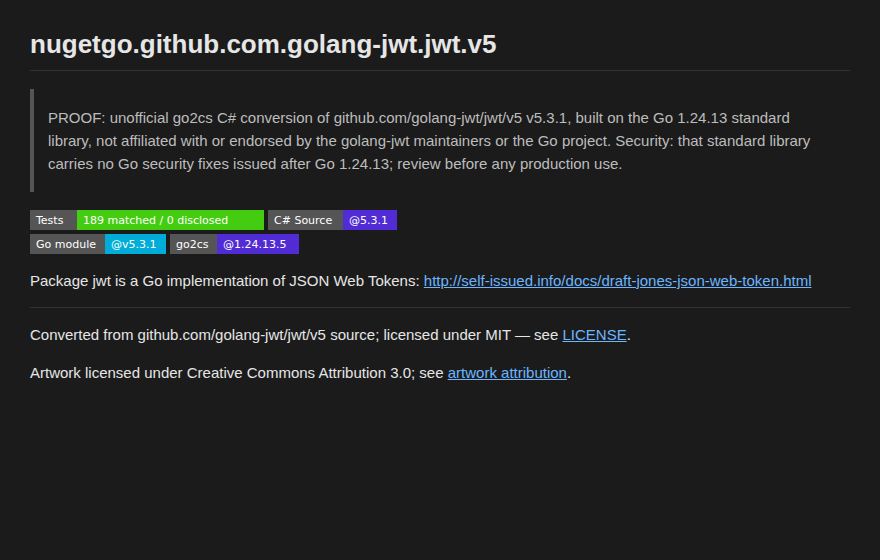
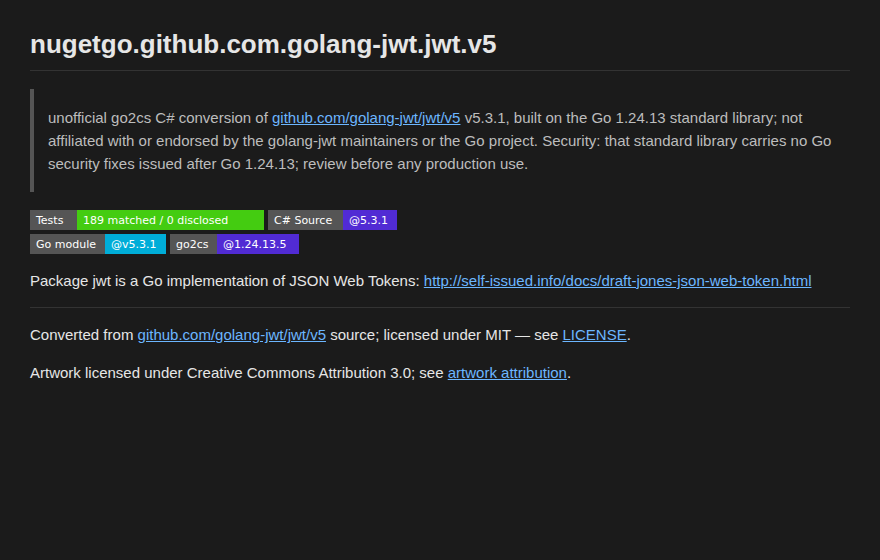
nugetgo jwt kit: the owner's README review and COORD ruling C -- no PROOF, the Go source linked, tags go2cs golang go
Both packages (the int.1 rehearsal and the release candidate) are re-packed at the tools tree 3d0d70ba53, from the
same roots and with the same proof.
- The description, the release notes and the README callout drop "PROOF:". The callout and the license line link the
  module at its GitHub version tag, which was checked anonymously. The package tags are go2cs golang go.
- Against the previous kit packages, only README.md, VALIDATION.md (its first line) and the nuspec's description,
  release notes and tags differ. Every assembly, pdb, the icon, LICENSE, index.md and the self-description are
  byte-identical.
- Refreshed: both nupkgs, SHA256SUMS, preview/README.md and README.png, conversion/VALIDATION.md (byte for byte as
  packed) and conversion/README.md (it quotes the description).
- OWNER-SHEET.md: $T and the packing notes name 3d0d70ba53. All PowerShell blocks parse.

Claude-Session: https://claude.ai/code/session_01DNESknHoGGXyZQ1oGc1eJC

Changed region(s): [[0.0307, 0.1821, 0.9511, 0.3036], [0.1534, 0.5768, 0.3682, 0.6071], [0.6136, 0.5768, 0.6443, 0.6071]]

diff --git a/OWNER-SHEET.md b/OWNER-SHEET.md
@@ -42,7 +42,7 @@ and version from its contents, so the file name changes nothing for signing or p
 | `conversion/` | for COORD: the files of the conversion commit on `jwt-cs`, in the nested layout; the upstream LICENSE, VALIDATION.md and the proof page(s) sit at its root |
 | `ROW-PR.md` | draft text for the registry row's pull request |
 
-Both packages were packed at `T` = `claude/c2-nugetgo-tools` @ `ac8775c806`, against the published go.* 1.24.13.5,
+Both packages were packed at `T` = `claude/c2-nugetgo-tools` @ `3d0d70ba53`, against the published go.* 1.24.13.5,
 with `-platforms linux/amd64` and `-ExcludePackage github.com/golang-jwt/jwt/v5/test` (COORD ruling: jwt's own test
 fixtures, not API a consumer imports). Each holds two assemblies, the root package and `request`. Section 1: 189
 matched, 0 disclosed (root 186, `request` 3); input digests `sha256-9647af36…eb78` (root) and `sha256-4a1b7eb5…f8cb`
@@ -51,8 +51,17 @@ matched, 0 disclosed (root 186, `request` 3); input digests `sha256-9647af36…e
 `T` is the tools that packed the first packages here plus the README and icon cut (owner, 2026-10-10), and the packs
 add `-LicenseSpdx MIT`. Each package now carries a generated README.md as its nuget.org README, the go2cs icon,
 and VALIDATION.md as a file the README links. The README links the conversion repository at the tag `nuget-<release
-version>`, never `HEAD` (COORD ruling 2026-10-10). Everything else is unchanged and was measured so: the packed assemblies
-are byte-identical to the ones packed at `7888e4e72f`, and so are the description and VALIDATION.md.
+version>`, never `HEAD` (COORD ruling 2026-10-10). The packed assemblies are byte-identical to the ones packed at
+`7888e4e72f`, measured.
+
+The owner's review of the hashset preview (2026-10-10) reaches these packages too, from `T` = `3d0d70ba53`. The
+description, the release notes and the README's top callout no longer start with "PROOF:", and read "...
+standard library; not affiliated ...". The callout's module path, and the "Converted from ..." line's, link the Go
+module's source at its version tag on GitHub. The package tags are `go2cs golang go`, with PROOF dropped (COORD ruling
+C). Against the previous kit's packages, only README.md, VALIDATION.md (its first line, which is the description) and
+the nuspec's description, release notes and tags differ; every assembly, the pdbs, the icon, LICENSE, `index.md` and the
+self-description are byte-identical. `conversion/VALIDATION.md` is the new file, byte for byte as packed, and
+`conversion/README.md` quotes the new description.
 
 ## PATH A: run the rehearsal
 
@@ -76,7 +85,7 @@ if ((go version) -notmatch 'go1\.24\.13 ') { throw 'go is not go1.24.13: check t
 
 $Repo = (git rev-parse --show-toplevel)
 $Work = Join-Path ([IO.Path]::GetTempPath()) 'nugetgo-jwt-int1'
-$T    = 'ac8775c806'
+$T    = '3d0d70ba53'
 $Kit  = 'claude/c2-nugetgo-jwt-5.3.1'
 $Id   = 'nugetgo.github.com.golang-jwt.jwt.v5'
 $PV   = '5.3.1-int.1'

diff --git a/preview/README.md b/preview/README.md
@@ -1,6 +1,6 @@
 # nugetgo.github.com.golang-jwt.jwt.v5
 
-> PROOF: unofficial go2cs C# conversion of github.com/golang-jwt/jwt/v5 v5.3.1, built on the Go 1.24.13 standard library, not affiliated with or endorsed by the golang-jwt maintainers or the Go project. Security: that standard library carries no Go security fixes issued after Go 1.24.13; review before any production use.
+> unofficial go2cs C# conversion of [github.com/golang-jwt/jwt/v5](https://github.com/golang-jwt/jwt/tree/v5.3.1) v5.3.1, built on the Go 1.24.13 standard library; not affiliated with or endorsed by the golang-jwt maintainers or the Go project. Security: that standard library carries no Go security fixes issued after Go 1.24.13; review before any production use.
 
 [![Tests](https://img.shields.io/badge/Tests-189_matched_%2F_0_disclosed-brightgreen?logo=go)](https://github.com/ritchiecarroll/jwt-cs/blob/nuget-5.3.1/VALIDATION.md) [![C# Source](https://img.shields.io/badge/C%23_Source-@5.3.1-512BD4?logo=dotnet)](https://github.com/ritchiecarroll/jwt-cs/tree/nuget-5.3.1)\
 [![Go module](https://img.shields.io/badge/Go_module-@v5.3.1-00ADD8?logo=go)](https://pkg.go.dev/github.com/golang-jwt/jwt/v5@v5.3.1) [![go2cs](https://img.shields.io/badge/go2cs-@1.24.13.5-512BD4?logo=dotnet)](https://github.com/ritchiecarroll/go2cs/tree/nuget-1.24.13.5)
@@ -9,6 +9,6 @@ Package jwt is a Go implementation of JSON Web Tokens: http://self-issued.info/d
 
 ---
 
-Converted from github.com/golang-jwt/jwt/v5 source; licensed under MIT — see [LICENSE](https://github.com/ritchiecarroll/jwt-cs/blob/nuget-5.3.1/LICENSE).
+Converted from [github.com/golang-jwt/jwt/v5](https://github.com/golang-jwt/jwt/tree/v5.3.1) source; licensed under MIT — see [LICENSE](https://github.com/ritchiecarroll/jwt-cs/blob/nuget-5.3.1/LICENSE).
 
 Artwork licensed under Creative Commons Attribution 3.0; see [artwork attribution](https://github.com/ritchiecarroll/go2cs/blob/master/docs/images/README).

diff --git a/conversion/README.md b/conversion/README.md
@@ -18,9 +18,9 @@ Published as [`nugetgo.github.com.golang-jwt.jwt.v5`](https://www.nuget.org/pack
 5.3.1. A rebuild of the same Go version adds a fourth, revision part: `5.3.1.N`, where N counts up from 1. The package
 holds two assemblies: the module's root package and `request`.
 
-PROOF: unofficial go2cs C# conversion of github.com/golang-jwt/jwt/v5 v5.3.1, built on the Go 1.24.13 standard
-library, not affiliated with or endorsed by the golang-jwt maintainers or the Go project. Security: that standard
-library carries no Go security fixes issued after Go 1.24.13; review before any production use.
+unofficial go2cs C# conversion of github.com/golang-jwt/jwt/v5 v5.3.1, built on the Go 1.24.13 standard library; not
+affiliated with or endorsed by the golang-jwt maintainers or the Go project. Security: that standard library carries
+no Go security fixes issued after Go 1.24.13; review before any production use.
 
 ## What is here
 

diff --git a/conversion/VALIDATION.md b/conversion/VALIDATION.md
@@ -1,4 +1,4 @@
-> PROOF: unofficial go2cs C# conversion of github.com/golang-jwt/jwt/v5 v5.3.1, built on the Go 1.24.13 standard library, not affiliated with or endorsed by the golang-jwt maintainers or the Go project. Security: that standard library carries no Go security fixes issued after Go 1.24.13; review before any production use.
+> unofficial go2cs C# conversion of github.com/golang-jwt/jwt/v5 v5.3.1, built on the Go 1.24.13 standard library; not affiliated with or endorsed by the golang-jwt maintainers or the Go project. Security: that standard library carries no Go security fixes issued after Go 1.24.13; review before any production use.
 
 # `github.com/golang-jwt/jwt/v5` — module validation summary
 
